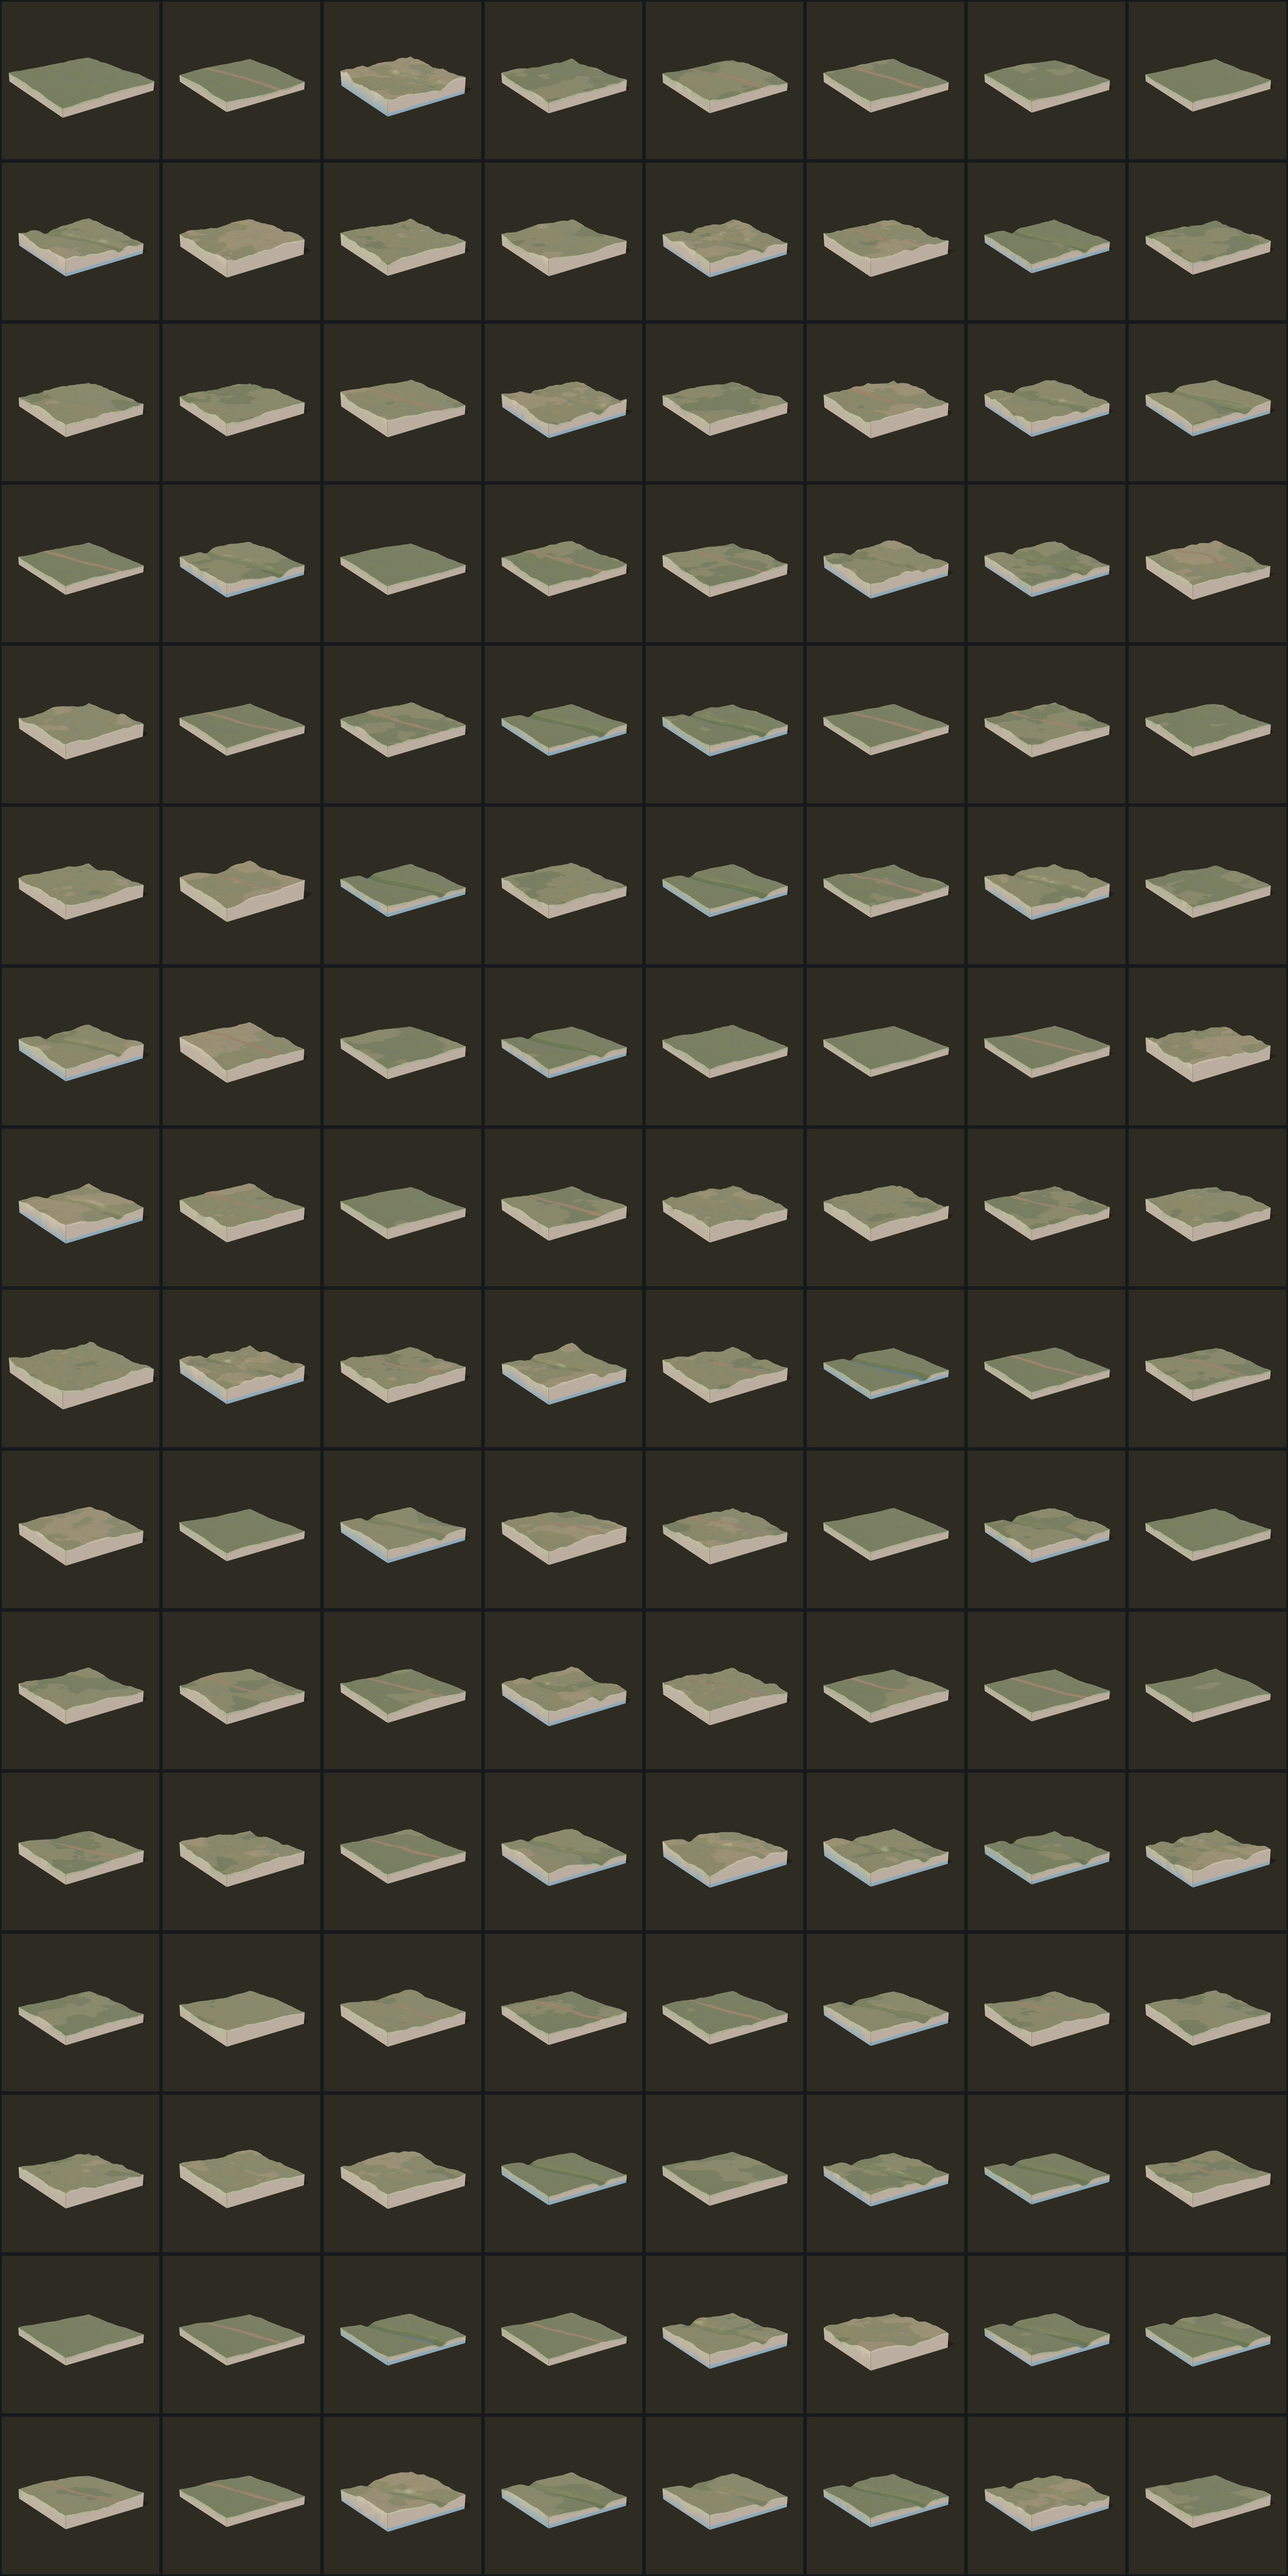
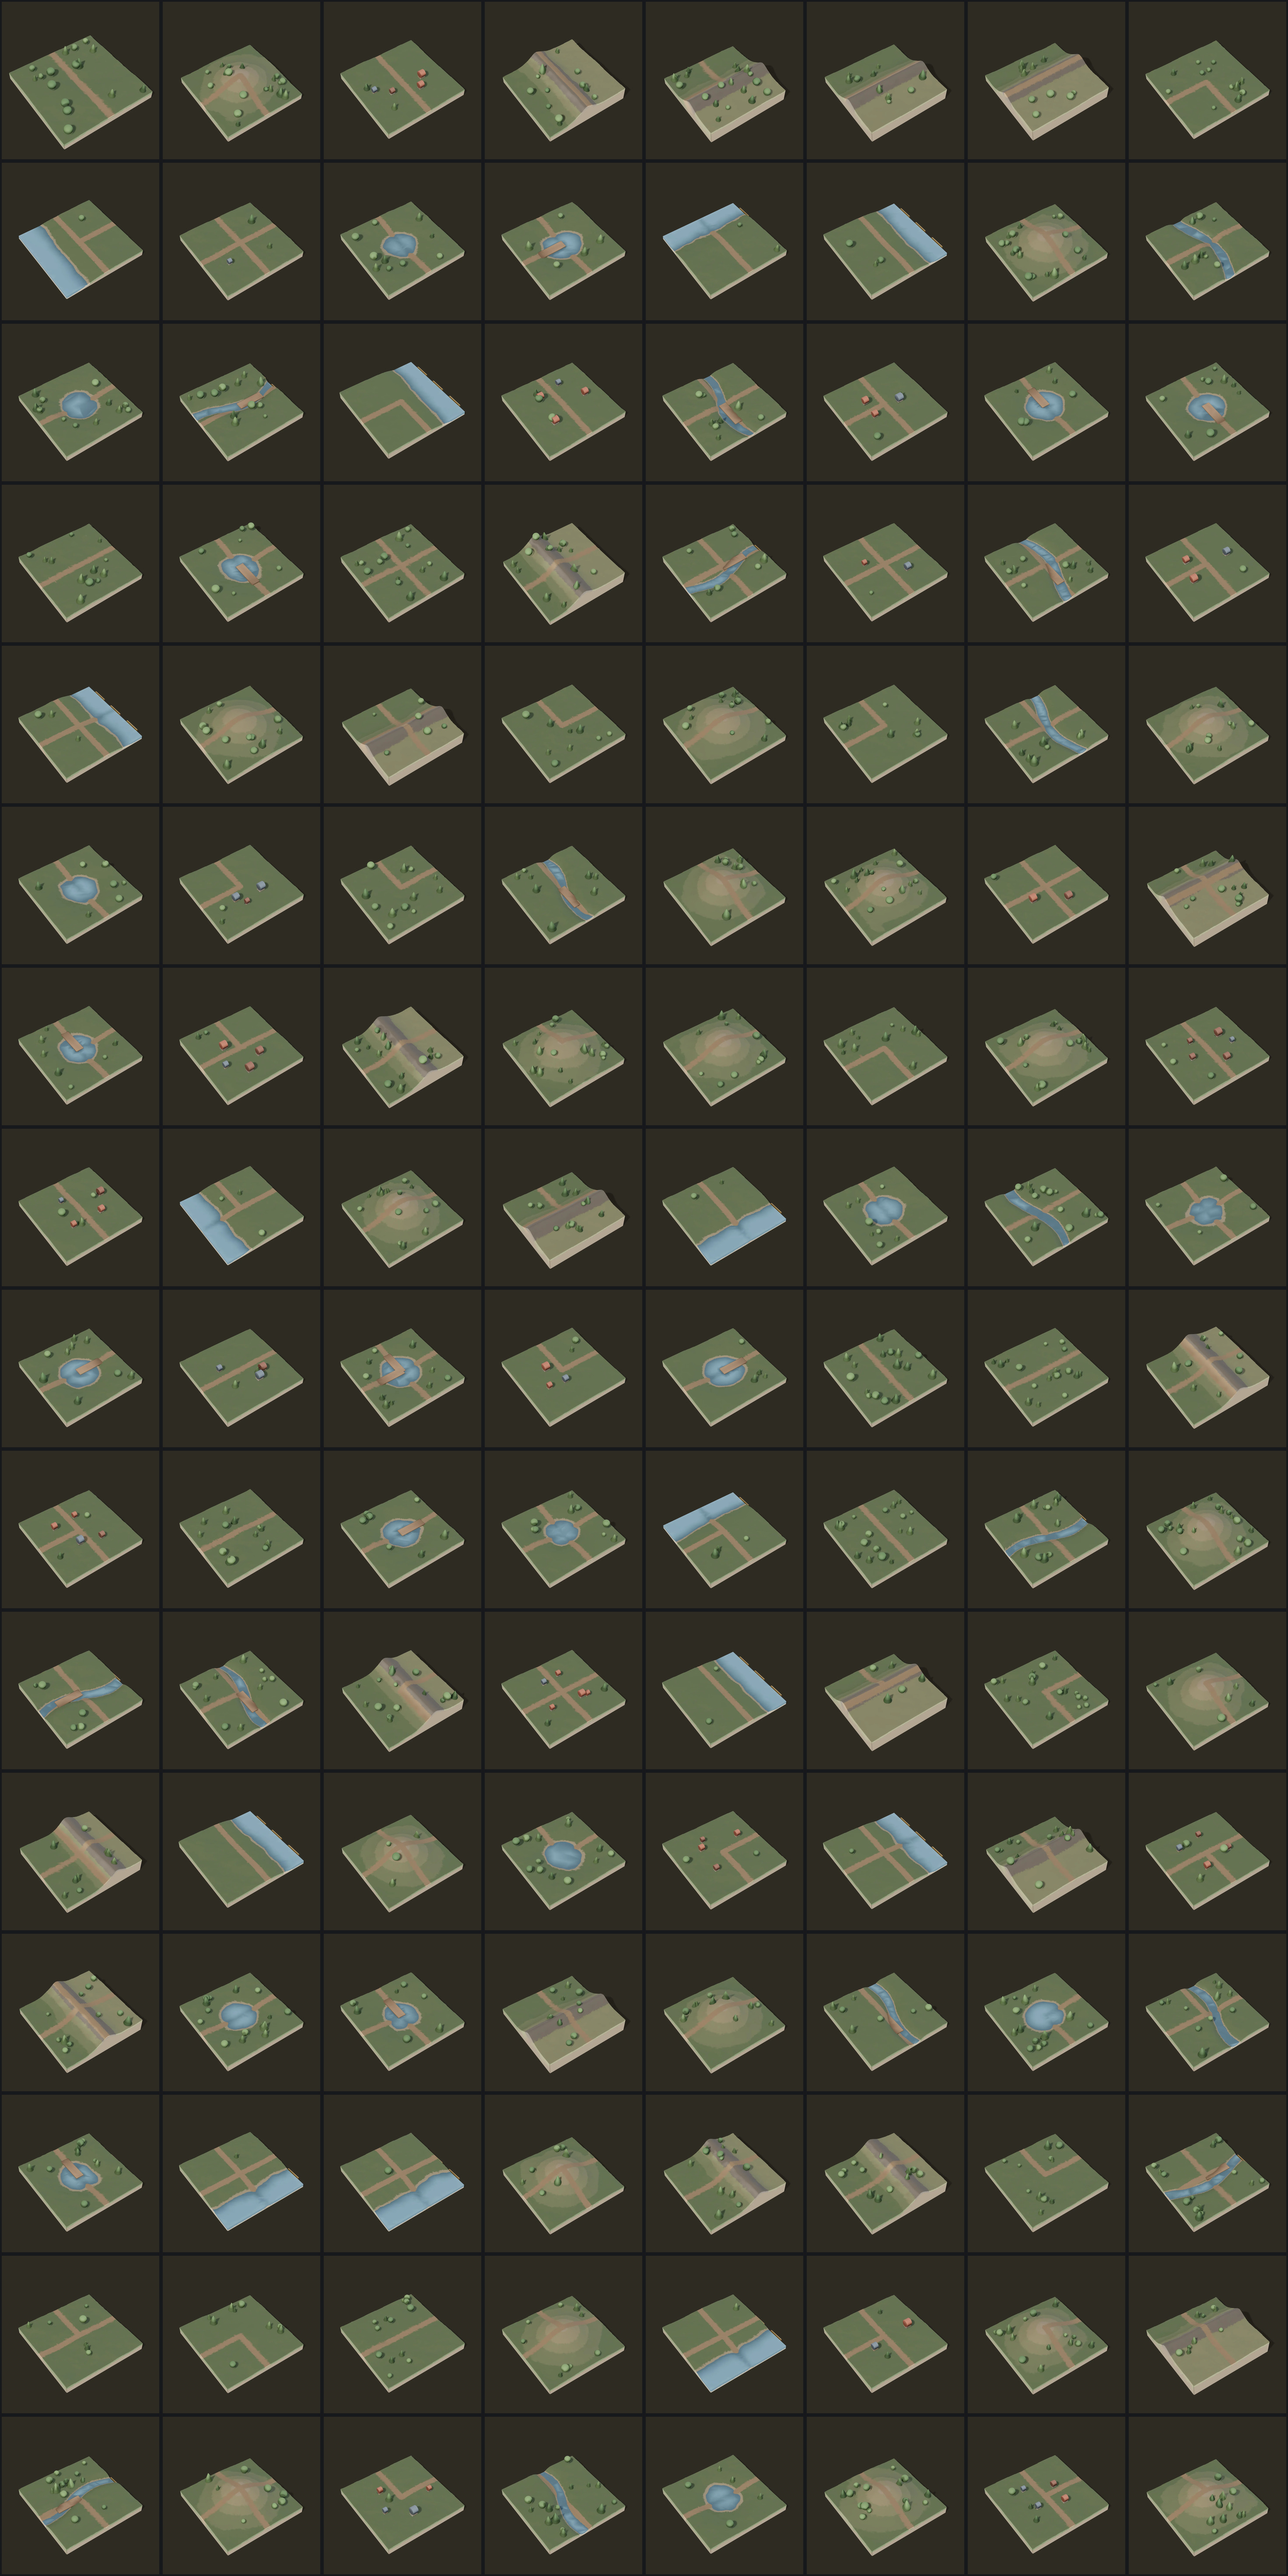
A VERY SMALL DETOUR: cloud build kit (brief, loader, app entry, 404, Cloudflare deploy config)

diff --git a/index.html b/index.html
@@ -1,0 +1,23 @@
+<!doctype html>
+<html lang="en">
+  <head>
+    <meta charset="utf-8" />
+    <meta name="viewport" content="width=device-width, initial-scale=1, viewport-fit=cover" />
+    <title>A VERY SMALL DETOUR</title>
+    <meta name="description" content="Rearrange a pocket map's hinged terrain to make a walkable route" />
+    <style>
+      /* Arrival veil: shown until worldReady() in src/loader.ts lifts it. Restyle to the art direction. */
+      #arrival { position: fixed; inset: 0; z-index: 100; display: grid; place-items: center; align-content: center; gap: 18px; background: #0d0f14; color: #f2efe6; font: 600 13px/1.2 system-ui, sans-serif; letter-spacing: 0.2em; text-transform: uppercase; transition: opacity 0.6s ease, visibility 0.6s; }
+      #arrival.is-done { opacity: 0; visibility: hidden; }
+      #arrival .bar { width: 140px; height: 2px; background: #ffffff22; overflow: hidden; }
+      #arrival .bar i { display: block; height: 100%; width: 40%; background: currentColor; animation: arrival-slide 1.2s ease-in-out infinite; }
+      @keyframes arrival-slide { from { transform: translateX(-100%); } to { transform: translateX(250%); } }
+      @media (prefers-reduced-motion: reduce) { #arrival .bar i { animation: none; width: 100%; } }
+    </style>
+  </head>
+  <body>
+    <div id="arrival" role="status" aria-live="polite"><span>A VERY SMALL DETOUR</span><div class="bar"><i></i></div></div>
+    <div id="root"></div>
+    <script type="module" src="/src/main.tsx"></script>
+  </body>
+</html>

diff --git a/src/loader.ts b/src/loader.ts
@@ -1,0 +1,14 @@
+// Arrival loader (D09): the veil in index.html stays until the first frame is drawn.
+// A safety reveal after 12 s never leaves a blank screen.
+let revealed = false;
+
+export function worldReady() {
+  if (revealed || typeof document === "undefined") return;
+  revealed = true;
+  const veil = document.getElementById("arrival");
+  if (!veil) return;
+  veil.classList.add("is-done");
+  window.setTimeout(() => veil.remove(), 700);
+}
+
+if (typeof window !== "undefined") window.setTimeout(worldReady, 12_000);

diff --git a/public/404.html b/public/404.html
@@ -1,0 +1,6 @@
+<!doctype html>
+<html lang="en">
+  <head><meta charset="utf-8" /><meta name="viewport" content="width=device-width, initial-scale=1" /><title>Not found — A VERY SMALL DETOUR</title>
+  <style>body{margin:0;min-height:100vh;display:grid;place-items:center;background:#0d0f14;color:#f2efe6;font:16px/1.5 system-ui,sans-serif;text-align:center}a{color:inherit}</style></head>
+  <body><main><h1>Nothing here</h1><p><a href="/">Back to A VERY SMALL DETOUR</a></p></main></body>
+</html>

diff --git a/vite.config.ts b/vite.config.ts
@@ -1,0 +1,10 @@
+import tailwind from "@tailwindcss/vite";
+import react from "@vitejs/plugin-react";
+import { defineConfig } from "vite";
+
+export default defineConfig({
+  plugins: [react(), tailwind()],
+  server: { host: "127.0.0.1", port: 4522, strictPort: true },
+  preview: { host: "127.0.0.1", port: 4622, strictPort: true },
+  build: { cssMinify: "lightningcss" },
+});

diff --git a/src/main.tsx b/src/main.tsx
@@ -1,0 +1,7 @@
+import { createRoot } from "react-dom/client";
+import { worldReady } from "./loader";
+
+// Placeholder until the game is built (BRIEF.md).
+const root = document.getElementById("root");
+if (root) createRoot(root).render(<main style={{ padding: 24 }}>Under construction.</main>);
+requestAnimationFrame(() => worldReady());

diff --git a/tests/scaffold.test.ts b/tests/scaffold.test.ts
@@ -1,0 +1,6 @@
+import { expect, test } from "bun:test";
+
+// Replaced by rule tests when the game is built (BRIEF.md).
+test("scaffold", () => {
+  expect(1 + 1).toBe(2);
+});

diff --git a/BRIEF.md b/BRIEF.md
@@ -1,0 +1,46 @@
+# A VERY SMALL DETOUR — v1 brief for a cloud build session
+
+You are building this project's v1 in one focused session. Ship a small, polished, complete experience — not a prototype and not a sprawling one. Read this brief once, write a plan of 5–10 lines, then build. Stop when the definition of done is met.
+
+## The idea
+
+**12 — A VERY SMALL DETOUR.** Expand the hinged map seed into a route puzzle adventure. The pocket map and miniature terrain must represent the same state. Define which terrain pieces can turn/fold, how traversal works, what makes a route valid and how the traveller reaches each destination. Develop an authored progression and ending. Give it its own cartographic materials and scale rather than repeating FOLDFIELD's paper architecture. Prove one map change producing a clear change to a walkable route.
+
+## Four additional games — now included
+
+These entered the brief as smaller seeds and are now included in the full commission. The next agent must develop proper artwork, rules, progression, feedback and endings for each before producing it. They are not optional substitutes for the six games above.
+
+| Idea | The playable hook | What it might grow into |
+| --- | --- | --- |
+| **The Moon Has a Gardener** | Rotate a small garden moon and position shade panels to give different plants the light cycles they need | A quiet spatial puzzle game with a visibly changing little ecosystem |
+| **Unscheduled Maintenance** | A telescope's mirrors have drifted; repair its optical path to reveal an impossible new constellation | A compact space-observatory puzzle and an especially strong lighting showcase |
+| **A Very Small Detour** | Rotate hinged trail sections on a pocket map; the actual miniature landscape changes with the map | An adventure-puzzle companion to FOLDFIELD, if kept visually distinct |
+| **Campfire Confidential** | Rearrange a campsite's objects so their shadows tell a requested story on a tent wall | A small shadow-composition game with cosy light and humorous solutions |
+
+Campfire Confidential could be a particularly strong short experiment: one lamp, a few recognisable camping objects and a tent. It has a small asset requirement and a visual rule that uses genuine 3D. Test whether the shadow solutions are readable and allow some freedom rather than demanding one exact pixel arrangement.
+
+Art direction: **A VERY SMALL DETOUR:** topographic relief, expedition-map markings and hinged terrain with a distinct cartographic identity.
+
+## Definition of done (v1)
+
+1. One focused scene delivering the idea above, with a complete loop: start → core interaction → a visible result or ending → replay. A short first-time hint teaches the controls in place.
+2. Arrival loader: keep the veil in `index.html` and `src/loader.ts`; restyle the veil to the art direction and call `worldReady()` after the first rendered frame.
+3. Desktop (1440×900) and phone (390×844) layouts; mouse, touch and keyboard; honour `prefers-reduced-motion`; visible focus and labelled controls.
+4. `bun run check` passes: strict `tsc`, Biome, `bun test`, production build into `dist/`.
+5. Unit tests of the game rules (pure TypeScript, no DOM) replace `tests/scaffold.test.ts`.
+6. `README.md`: one status paragraph, how to play, and credits for any asset used.
+No extra modes, settings screens, accounts, leaderboards, backends, analytics or network calls.
+
+## Technical rules
+
+- The stack is installed and pinned: Vite, React, strict TypeScript, three.js 0.186 (direct, no React Three Fiber), GSAP, Tailwind v4, Biome, Bun. Add a dependency only if essential, pinned exactly.
+- `bun run dev` serves the real app (`index.html` → `src/main.tsx`); `bun run build` builds it into `dist/`. `development/` is old tooling: leave it alone.
+- Single responsibility: `src/game/` pure rules and state (tested), `src/scene/` three.js scene, camera, lights and meshes, `src/ui/` React HUD and panels, `src/main.tsx` wiring. Files under ~300 lines.
+- Visuals: author forms procedurally in code (geometry, instancing, small shaders where they clearly help), AgX or ACES tone mapping, one key light plus hemisphere or environment light, soft shadows where cheap, a cohesive palette and strong silhouettes. Type: a system font stack. External assets only if CC0 or public domain, with the source in README.
+- Performance: 60 fps on a mid laptop; cap devicePixelRatio at 2.
+- Do not change `wrangler.jsonc`, deploy or publish anything.
+
+## Working method
+
+- There is no GPU here. Do not loop on screenshots: at most two headless checks (desktop, phone) if Chromium is available (software WebGL is fine).
+- Commit in small, clear steps. Finish with a message: what was built, how to play, known gaps.

diff --git a/AGENTS.md b/AGENTS.md
@@ -1,6 +1,6 @@
 # A VERY SMALL DETOUR
 
-Read the collection AGENTS, STATUS and COLLECTION-PLAN two levels above. One agent, sequential production. This project has no authority to start another project or delegate.
+Read the collection AGENTS, STATUS and COLLECTION-PLAN two levels above. Sequential project production. William now authorises GPT-6 Sol at MAX for independent review and bounded subagent tasks; the root agent remains main implementer and direction-maker. This project has no authority to start another project.
 
 Keep all production source, data, assets and dependencies in this repository. Read DESIGN.md and ASSET-REGISTER.md before creative implementation; games also require GAME-DESIGN.md. The development harness is tooling, not an implemented project.
 

diff --git a/CLAUDE.md b/CLAUDE.md
@@ -1,0 +1,3 @@
+# A VERY SMALL DETOUR
+
+One project of a portfolio collection. Read `BRIEF.md` and follow it exactly: it is self-contained. References in `AGENTS.md` to files outside this repository (the collection root) are not available here; ignore them. Do not deploy, publish or edit `wrangler.jsonc`.
